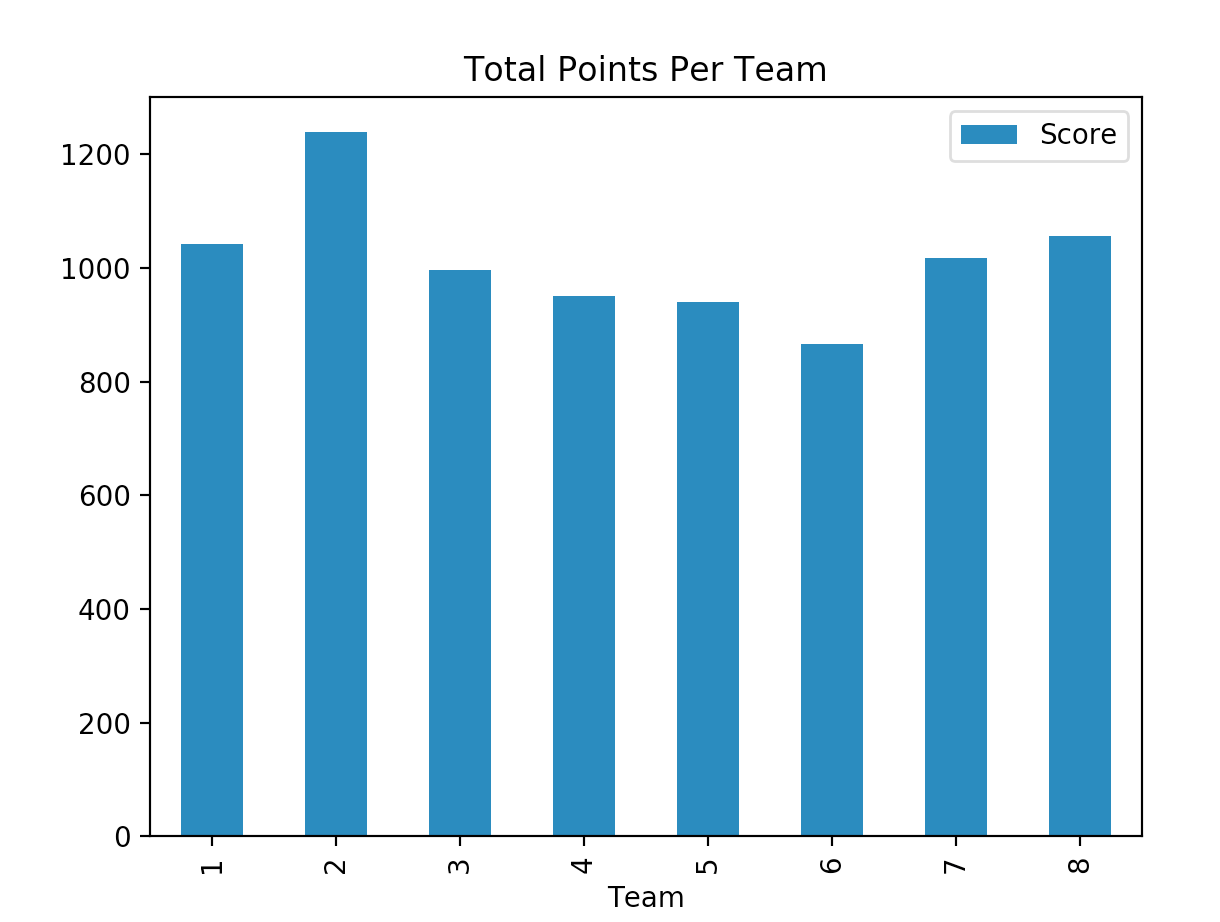
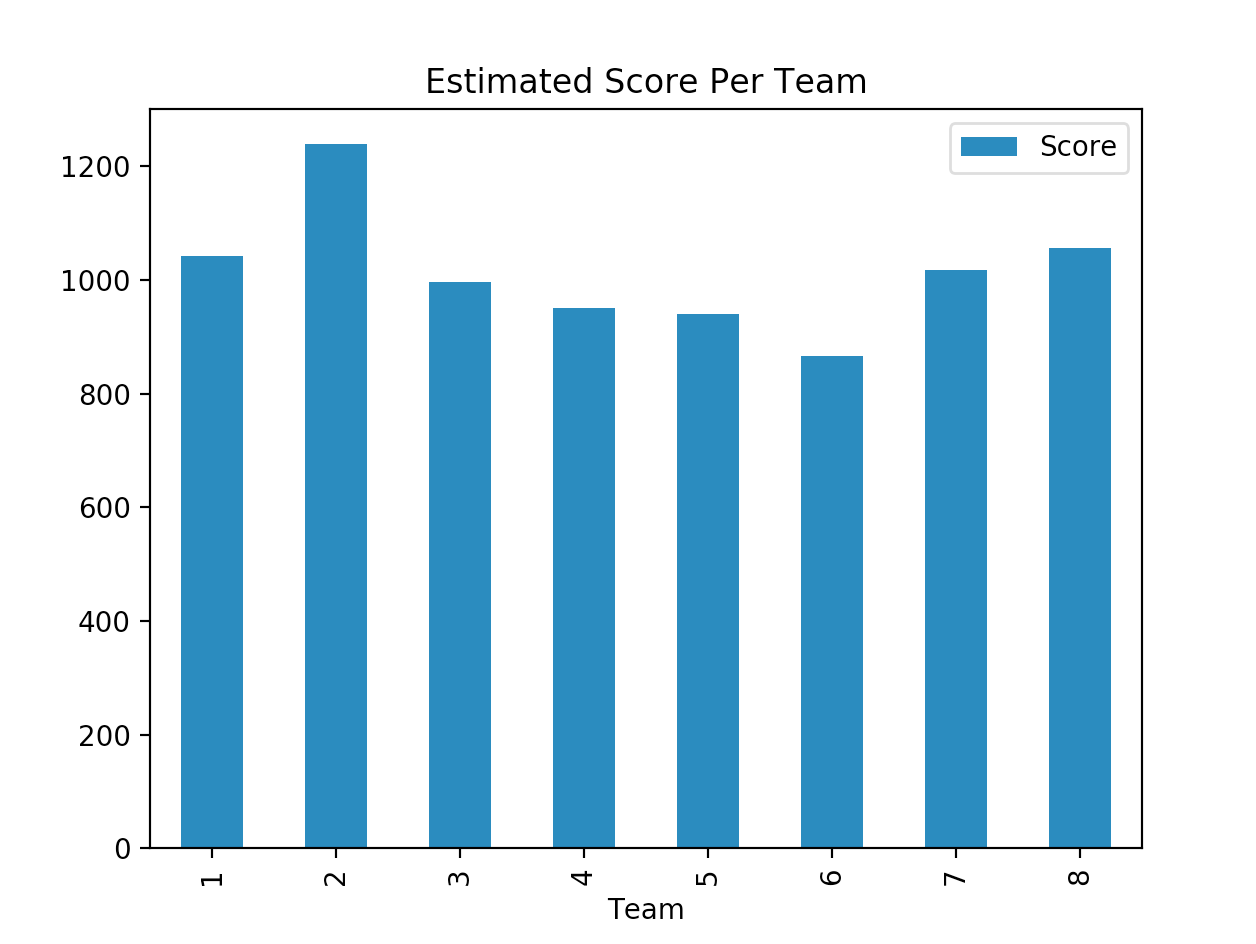
updated graph title

Changed region(s): [[0.0311, 0.0607, 0.9344, 1.0], [0.1557, 0.243, 0.1869, 0.2733]]

diff --git a/results.py b/results.py
@@ -11,5 +11,5 @@ team = [num for lst in cur.execute('SELECT Team FROM Team_Score').fetchall() for
 score = [num for lst in cur.execute('SELECT Score FROM Team_Score').fetchall() for num in lst]
 
 
-team_score_df.plot('Team', 'Score', kind = 'bar', title = 'Total Points Per Team')
+team_score_df.plot('Team', 'Score', kind = 'bar', title = 'Estimated Score Per Team')
 plt.show()
